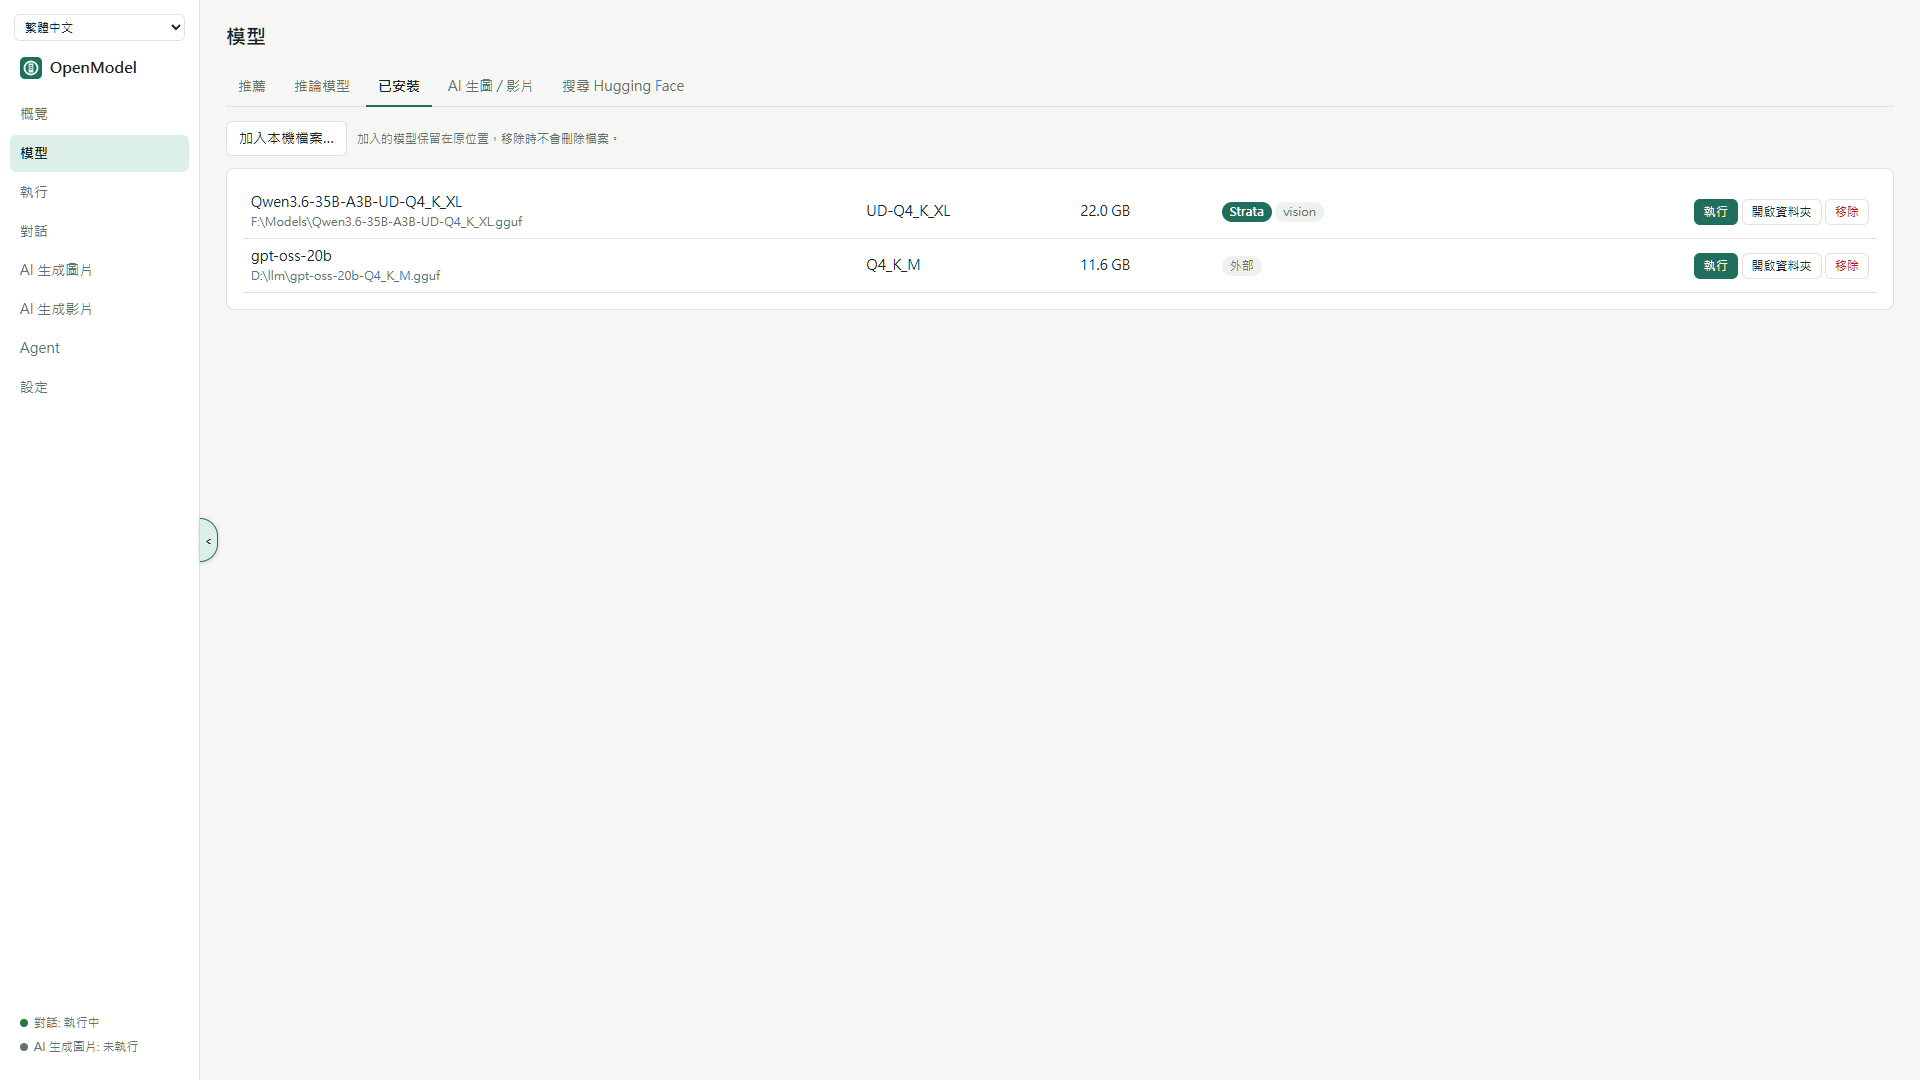
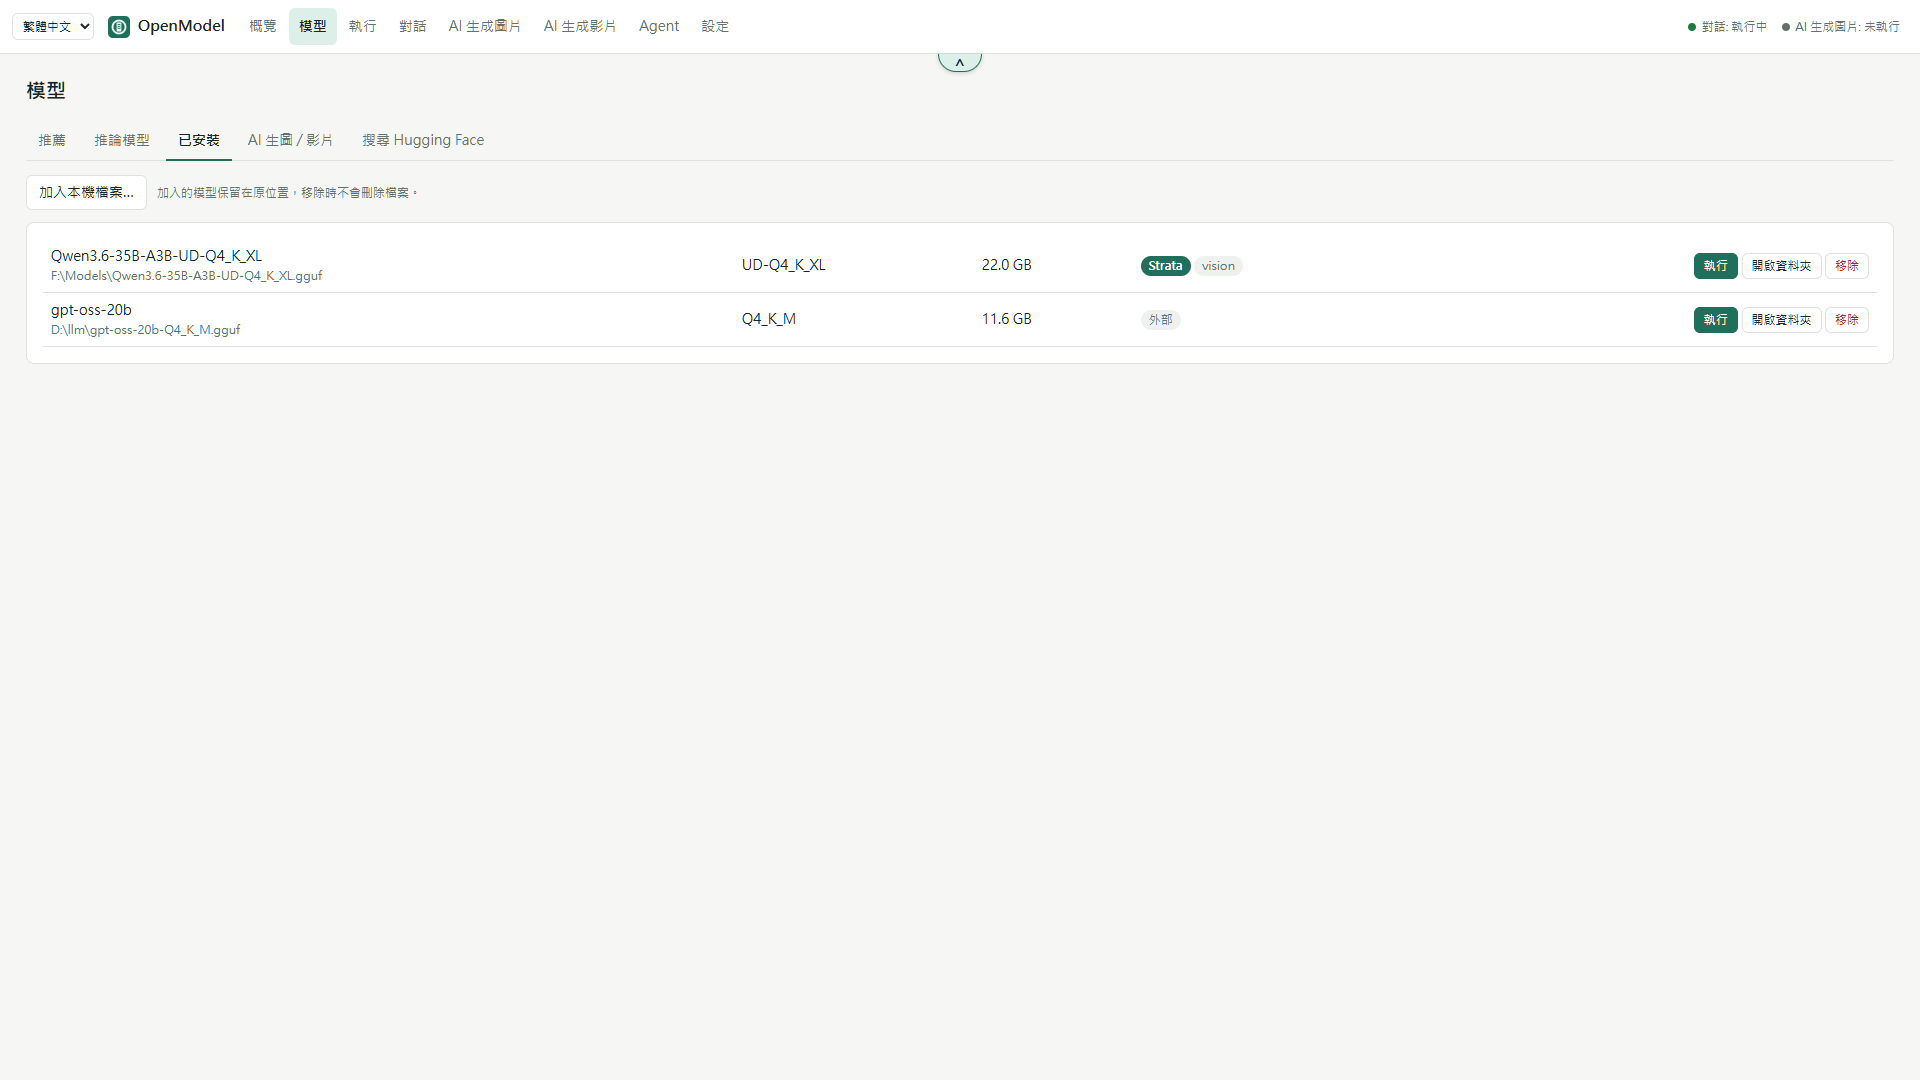
Navigation menu at the top by default; retake screenshots

diff --git a/app/src/App.tsx b/app/src/App.tsx
@@ -24,7 +24,7 @@ function loadNav(): NavPref {
     const v = JSON.parse(localStorage.getItem(NAV_KEY) ?? "null");
     if (v && ["left", "right", "top", "bottom"].includes(v.pos)) return { pos: v.pos, collapsed: !!v.collapsed };
   } catch { /* storage blocked or a bad value */ }
-  return { pos: "left", collapsed: false };
+  return { pos: "top", collapsed: false };
 }
 
 interface Job { id: string; label: string; progress?: Progress; onDone?: (d: JobDone) => void }

diff --git a/CHANGELOG.md b/CHANGELOG.md
@@ -12,8 +12,14 @@ This file records the changes in each version, loosely following [Keep a Changel
 ### 新增
 - 設定新增「自動上下文至少」，預設 64K：「上下文長度」選自動時（包括 JIT 自動掛載）至少用這個大小，讓 Hermes 等需要 64K 以上的 Agent 可以使用。
 
+### 變更
+- 導覽選單預設放在畫面上方。已經選過位置的裝置維持原本的選擇。
+
 ### Added
 - New setting "Auto context at least", 64K by default: an automatic context length (including JIT loads) is never smaller, so agents such as Hermes that need 64K or more can use the model.
+
+### Changed
+- The navigation menu now sits at the top by default. Devices where a position was already chosen keep it.
 
 ## [0.1.1-beta.4] - 2026-11-03
 
